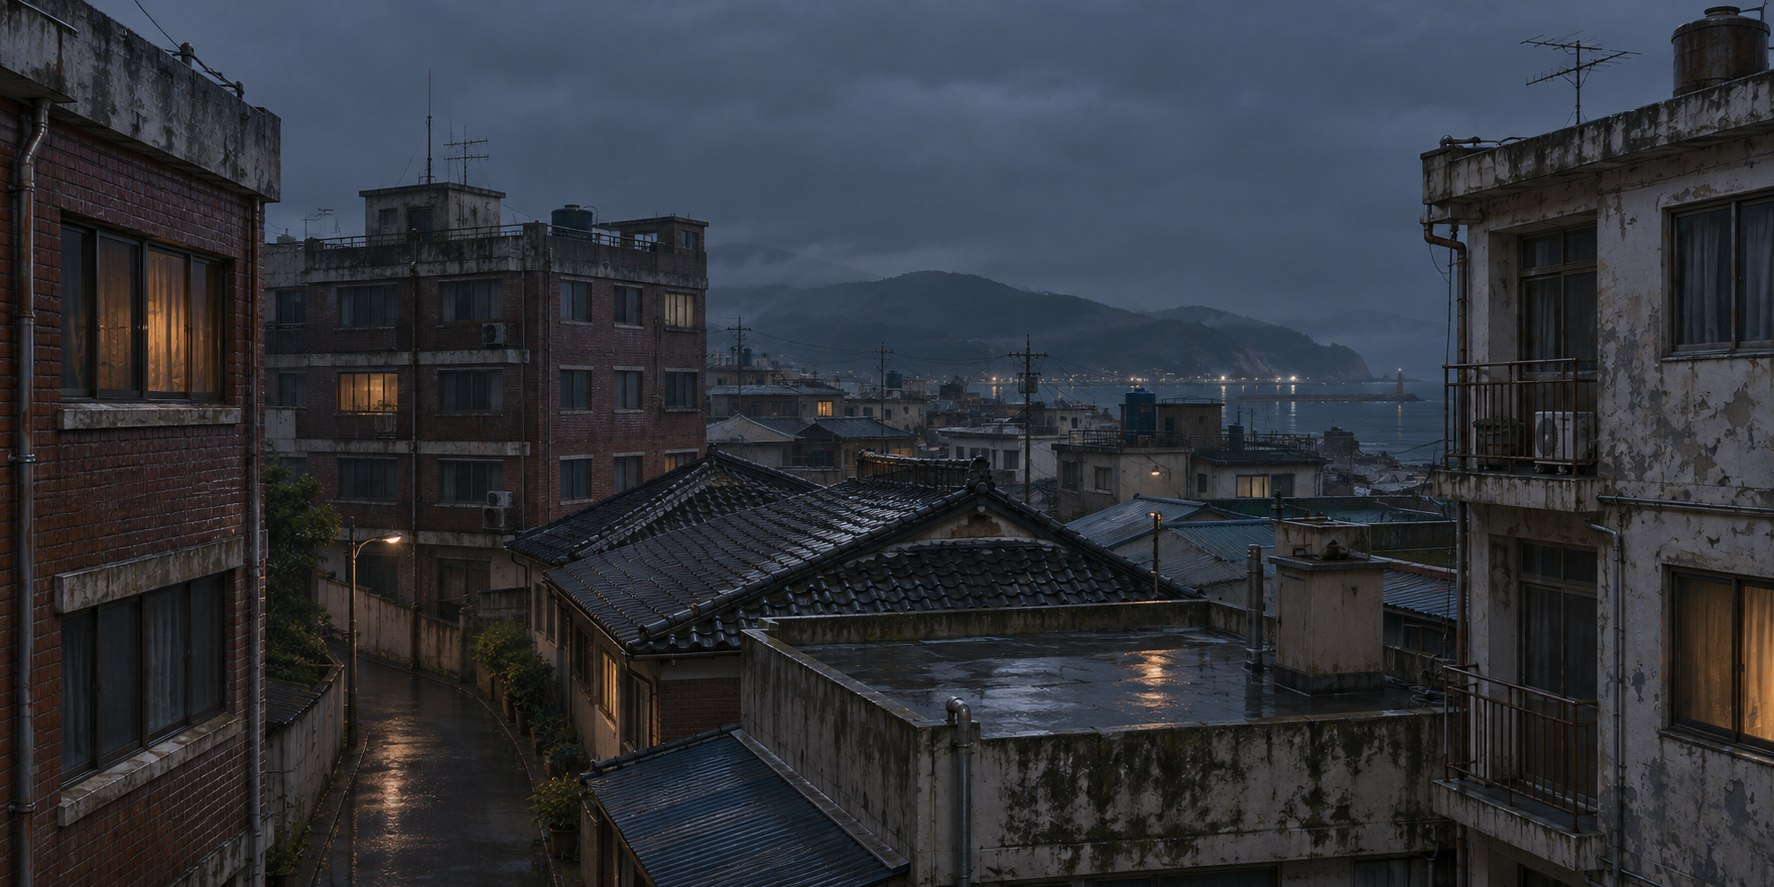
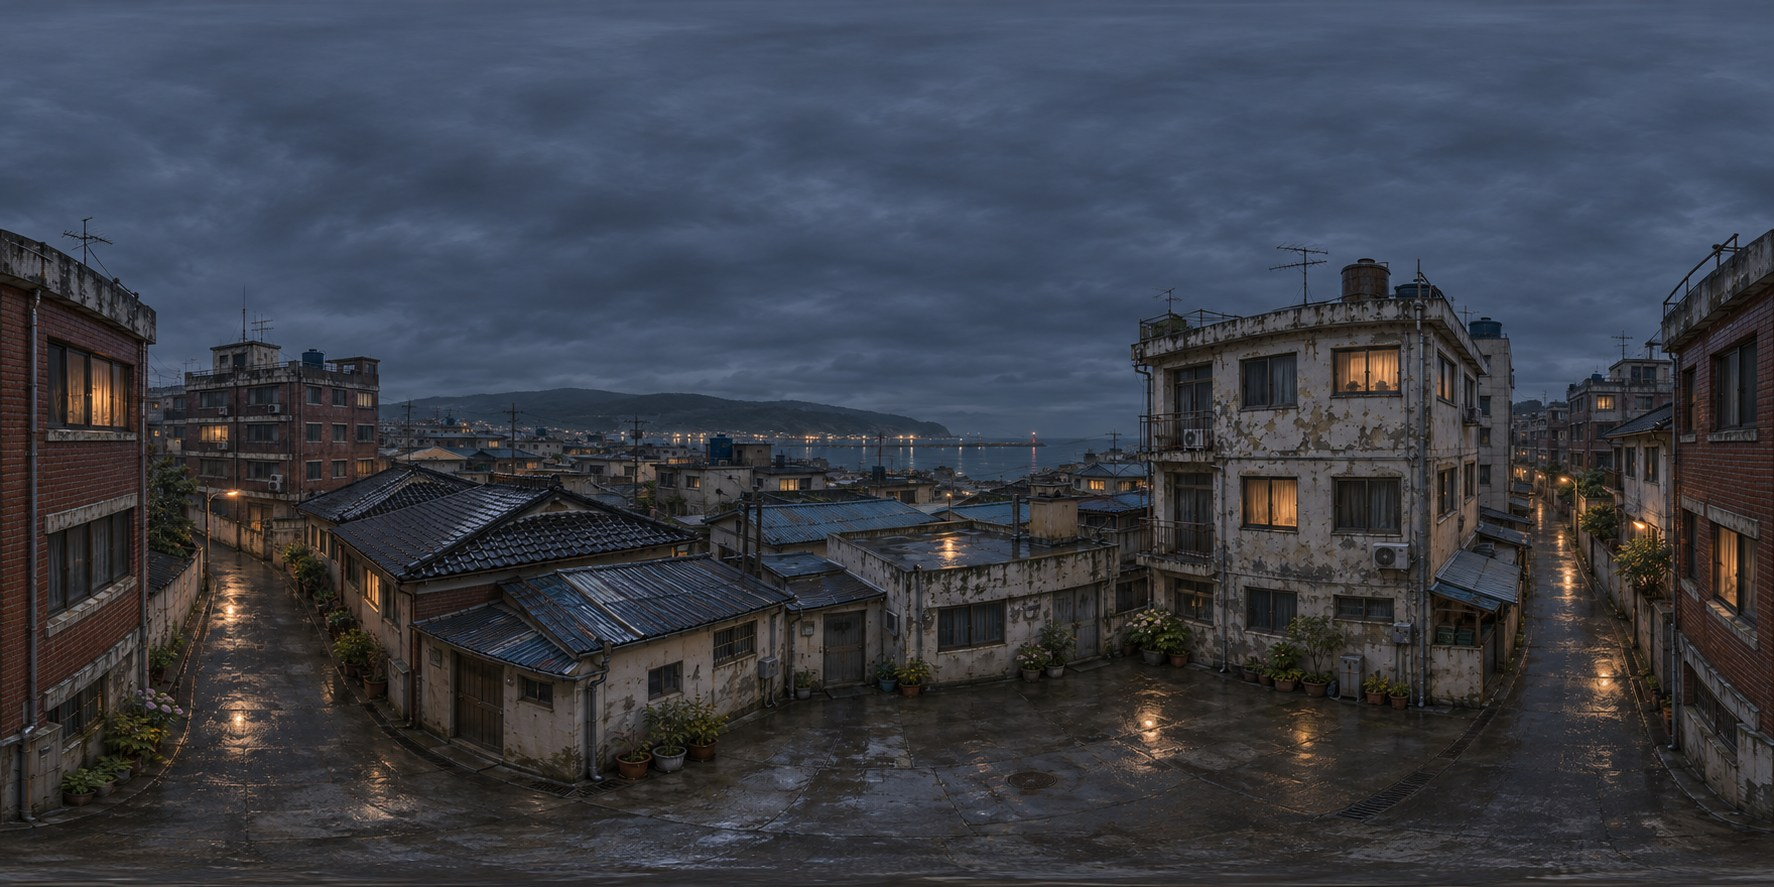
Fix mismatched window scenery and the black lower cutoff
Remove the proxy facades, wires and ground plane that conflicted with the photographic background. Replace the bounded panorama with a complete spherical environment and retain depth-layered rain and pane trails.

Validation: 7 existing state, routing and lobby tests pass. Inspected front, side and downward views at the window; the opaque foreground blocks and lower clipping edge are gone.

diff --git a/server/after-hours/public/exterior-scene.js b/server/after-hours/public/exterior-scene.js
@@ -1,90 +1,17 @@
 import * as T from './three.module.js';
-import {mergeGeometries} from './BufferGeometryUtils.js';
 
-// Distant photographic detail, architectural foreground parallax and rain at
-// several depths. All exterior geometry stays outside the playable hotel room.
+// A complete spherical environment keeps the outdoor view continuous at every
+// window angle. Do not overlay unmatched proxy facades or a clipping ground plane.
 export function buildExterior(scene,loader,canvasTexture){
  const exterior=new T.Group();exterior.name='rainy-town-exterior';scene.add(exterior);
  let seed=316170;const random=()=>{seed=(1664525*seed+1013904223)>>>0;return seed/4294967296;};
- const backdrop=loader.load('./assets/rainy-town-night.jpg?v=20261117-exterior',undefined,undefined,()=>{panorama.material.map=null;panorama.material.color.set('#17242c');panorama.material.needsUpdate=true;});backdrop.colorSpace=T.SRGBColorSpace;backdrop.anisotropy=4;
- const verts=[],uv=[],indices=[],segments=100,radius=38,height=24;
- // Extend the image's edge pixels above/below the photographic band. The
- // backdrop must not reveal a curved top or bottom edge beside the glass.
- const rows=[{y:-80,v:0},{y:2.6-height/2,v:0},{y:2.6+height/2,v:1},{y:80,v:1}];
- for(const row of rows)for(let i=0;i<=segments;i++){
-   const angle=(i/segments-.5)*Math.PI;
-   verts.push(Math.sin(angle)*radius,row.y,-Math.cos(angle)*radius);uv.push(i/segments,row.v);
- }
- for(let row=0;row<rows.length-1;row++)for(let i=0;i<segments;i++){const a=row*(segments+1)+i,b=a+1,c=a+segments+2,d=a+segments+1;indices.push(a,b,c,a,c,d);}
- const panoramaGeo=new T.BufferGeometry();panoramaGeo.setAttribute('position',new T.Float32BufferAttribute(verts,3));panoramaGeo.setAttribute('uv',new T.Float32BufferAttribute(uv,2));panoramaGeo.setIndex(indices);panoramaGeo.computeVertexNormals();
- const panorama=new T.Mesh(panoramaGeo,new T.MeshBasicMaterial({map:backdrop,color:'#c5d0d6',fog:false,toneMapped:false}));panorama.name='distant-rainy-town';exterior.add(panorama);
- // A real ground plane occludes the lower panorama when looking down. This
- // avoids stretching the photograph's last pixel row into vertical smears.
- const roadMap=canvasTexture((a,w,h)=>{
-   a.fillStyle='#252d31';a.fillRect(0,0,w,h);
-   for(let i=0;i<7000;i++){const shade=25+Math.floor(random()*28);a.fillStyle=`rgba(${shade},${shade+4},${shade+6},.35)`;a.fillRect(random()*w,random()*h,1,1);}
-   for(let i=0;i<24;i++){a.fillStyle='rgba(6,15,20,.14)';a.beginPath();a.ellipse(random()*w,random()*h,10+random()*80,5+random()*28,random()*Math.PI,0,Math.PI*2);a.fill();}
- },512,512);roadMap.wrapS=roadMap.wrapT=T.RepeatWrapping;roadMap.repeat.set(12,12);
- const road=new T.Mesh(new T.PlaneGeometry(110,110),new T.MeshLambertMaterial({map:roadMap,color:'#7d8b91'}));road.rotation.x=-Math.PI/2;road.position.set(0,-8.05,-35);road.name='wet-exterior-ground';exterior.add(road);
-
- const masonry=canvasTexture((a,w,h)=>{
-   a.fillStyle='#4a4643';a.fillRect(0,0,w,h);
-   for(let row=0;row<32;row++)for(let col=-1;col<15;col++){
-     const x=(col+(row%2)*.5)*w/14,y=row*h/32,shade=55+Math.floor(random()*32);
-     a.fillStyle=`rgb(${shade+9},${shade+3},${shade})`;a.fillRect(x+1,y+1,w/14-2,h/32-2);
-   }
-   for(let i=0;i<90;i++){const x=random()*w;a.fillStyle=`rgba(10,17,18,${.02+random()*.06})`;a.fillRect(x,random()*h,1+random()*8,60+random()*350);}
- },512,1024);
- const material={
-   brick:new T.MeshStandardMaterial({map:masonry,color:'#72808a',roughness:.93}),
-   trim:new T.MeshStandardMaterial({color:'#4c5558',roughness:.88}),
-   metal:new T.MeshStandardMaterial({color:'#1d292e',roughness:.62,metalness:.4}),
-   darkGlass:new T.MeshBasicMaterial({color:'#17272c',toneMapped:false}),
-   warmGlass:new T.MeshBasicMaterial({color:'#655438',toneMapped:false}),
-   windowShade:new T.MeshBasicMaterial({color:'#26363d',toneMapped:false})
- };
- const batches=Object.fromEntries(Object.keys(material).map(k=>[k,[]]));
- function block(batch,w,h,d,x,y,z){const g=new T.BoxGeometry(w,h,d);g.translate(x,y,z);batches[batch].push(g);}
- function pipe(points,r=.018,batch='metal'){
-   const g=new T.TubeGeometry(new T.CatmullRomCurve3(points.map(p=>new T.Vector3(...p))),Math.max(8,points.length*8),r,5,false);batches[batch].push(g);
- }
- // Peripheral buildings fill grazing-angle views when the player approaches
- // the window, without placing a flat facade across the central sightline.
- for(const b of [{x:-15,z:-20,w:5.5,h:10.5},{x:16,z:-22,w:6,h:12}]){
-   const ground=-8.2,front=b.z+2.2,top=ground+b.h;
-   block('brick',b.w,b.h,4.4,b.x,ground+b.h/2,b.z);
-   block('trim',b.w+.22,.18,4.6,b.x,top+.03,b.z);
-   for(const side of [-1,1])block('trim',.12,.44,4.5,b.x+side*(b.w/2-.1),top+.24,b.z);
-   block('trim',b.w,.44,.13,b.x,top+.24,front);
-   for(let floor=0;floor<4;floor++){
-     const y=ground+1.5+floor*2.25;
-     block('trim',b.w+.08,.09,.16,b.x,y-.66,front+.045);
-     for(let col=0;col<4;col++){
-       const x=b.x-b.w*.36+col*b.w*.24,w=.78,h=1.18;
-       block('metal',w+.10,h+.10,.09,x,y,front+.02);
-       const lit=random()<.18;
-       block(lit?'warmGlass':random()<.55?'darkGlass':'windowShade',w,h,.02,x,y,front+.075);
-       block('trim',w+.2,.07,.28,x,y-h/2-.04,front+.14);
-       block('metal',.035,h,.035,x,y,front+.094);
-       if(lit){block('windowShade',.13,h,.024,x-w*.3,y,front+.095);block('windowShade',.11,h,.024,x+w*.3,y,front+.095);}
-       if((floor+col)%5===0){
-         block('trim',.58,.38,.26,x+w*.65,y-.4,front+.22);
-         for(let i=0;i<4;i++)block('metal',.46,.016,.008,x+w*.65,y-.51+i*.07,front+.355);
-       }
-     }
-   }
-   const drainX=b.x+b.w*.42;
-   pipe([[drainX,top,front+.13],[drainX,top-.3,front+.25],[drainX,-7.9,front+.25]],.032);
-   block('metal',.8,.48,.72,b.x-.7,top+.33,b.z+.7);
-   pipe([[b.x+.7,top,b.z],[b.x+.7,top+1.3,b.z]],.018);
-   for(let i=0;i<4;i++)pipe([[b.x+.2,top+.7+i*.16,b.z],[b.x+1.2,top+.7+i*.16,b.z]],.008);
- }
- // Thin suspended wires sit well beyond the pane, so head movement gives
- // a subtle depth cue instead of looking like painted scratches on glass.
- for(let i=0;i<3;i++)pipe([[-12,4.1+i*.12,-12],[-5,3.4+i*.12,-13.7],[3,3.25+i*.12,-15],[12,3.8+i*.12,-16.5]],.007);
- for(const [key,geometries]of Object.entries(batches))if(geometries.length){
-   const merged=mergeGeometries(geometries,false),o=new T.Mesh(merged,material[key]);o.name='exterior-'+key;exterior.add(o);geometries.forEach(g=>g.dispose());
- }
+ const environmentMaterial=new T.MeshBasicMaterial({color:'#c5d0d6',side:T.BackSide,fog:false,toneMapped:false});
+ const backdrop=loader.load('./assets/rainy-town-night.jpg?v=20261117-environment2',undefined,undefined,()=>{
+   environmentMaterial.map=null;environmentMaterial.color.set('#17242c');environmentMaterial.needsUpdate=true;
+ });
+ backdrop.colorSpace=T.SRGBColorSpace;backdrop.wrapS=T.RepeatWrapping;backdrop.anisotropy=4;environmentMaterial.map=backdrop;
+ const panorama=new T.Mesh(new T.SphereGeometry(46,96,64),environmentMaterial);
+ panorama.name='distant-rainy-town';panorama.position.set(0,1.62,-4.5);panorama.rotation.y=Math.PI/2;panorama.frustumCulled=false;exterior.add(panorama);
 
  // Fine rain falls at three depths and speeds; far rain does not cover the
  // town with the uniformly long bright strokes used by the old placeholder.

diff --git a/server/after-hours/public/index.html b/server/after-hours/public/index.html
@@ -8,4 +8,4 @@
 <div id="modal" class="overlay" hidden><article><button id="closeModal" class="close" aria-label="닫기">×</button><div id="modalBody"></div></article></div>
 <div id="pause" class="overlay" hidden><article><div class="overline">TAKE A BREATH</div><h2>방은 기다린다.</h2><p>화면을 누르면 마우스 시점이 잠깁니다.<br>가방에서 물건을 선택하고, 대상 앞에서 E로 사용하세요.</p><button class="primary" id="resume">계속 조사하기 <span>→</span></button><button class="quiet" id="restart">처음부터 다시 시작</button><p class="muted">새로고침하면 현재 진행이 초기화됩니다.</p></article></div>
 <section id="ending" hidden><div class="ending-content"><div class="overline">CHAPTER 01 / THE WITNESS</div><h1>방은 열렸고,<br><em>기록은 남았다.</em></h1><p>봉투에는 사진 속 호텔의 마지막 근무표가 들어 있었다.<br>지워진 투숙객 명부의 이름과, 당신의 서명.<br><br>문밖으로 나왔지만, 이곳에 온 이유는 아직 남아 있다.</p><div id="result"></div><button class="primary" id="endingRestart">다시 조사하기 <span>↻</span></button><button class="quiet" id="returnRoom">열린 방 둘러보기</button></div><footer>첫 번째 밀실 완료 · 다음 공간: 기록실</footer></section>
-<div id="loading"><span class="overline">AFTER HOURS</span><b>316호의 문 앞에서</b><span id="loadStatus">방 안의 사물과 빛을 준비하고 있습니다.</span><div class="loadline"><i></i></div></div><script type="module" src="game.js?v=20261117-exterior"></script></body></html>
+<div id="loading"><span class="overline">AFTER HOURS</span><b>316호의 문 앞에서</b><span id="loadStatus">방 안의 사물과 빛을 준비하고 있습니다.</span><div class="loadline"><i></i></div></div><script type="module" src="game.js?v=20261117-environment2"></script></body></html>

diff --git a/server/after-hours/public/game.js b/server/after-hours/public/game.js
@@ -1,5 +1,5 @@
 import * as T from './three.module.js';
-import {buildRoom} from './room-scene.js?v=20261117-exterior';
+import {buildRoom} from './room-scene.js?v=20261117-environment2';
 import {createState,ITEMS,addItem,combineFilms,alignFilm,setClock,useItem,uvVisible,unlockDoor,phase,HINTS} from './room-state.js';
 const $=q=>document.querySelector(q),canvas=$('#world');
 const state=createState();let started=false,paused=false,complete=false,mode='walk',active=null,crouched=false,yaw=.02,pitch=0,drag=false,moved=false,inspectionId='',inspectPivot=null,inspectDistance=3.4;

diff --git a/server/after-hours/public/room-scene.js b/server/after-hours/public/room-scene.js
@@ -1,7 +1,7 @@
 import * as T from './three.module.js';
 import {Reflector} from './Reflector.js';
 import {GLTFLoader} from './GLTFLoader.js';
-import {buildExterior} from './exterior-scene.js';
+import {buildExterior} from './exterior-scene.js?v=20261117-environment2';
 import {uvVisible} from './room-state.js';
 
 export function buildRoom(renderer,state){
